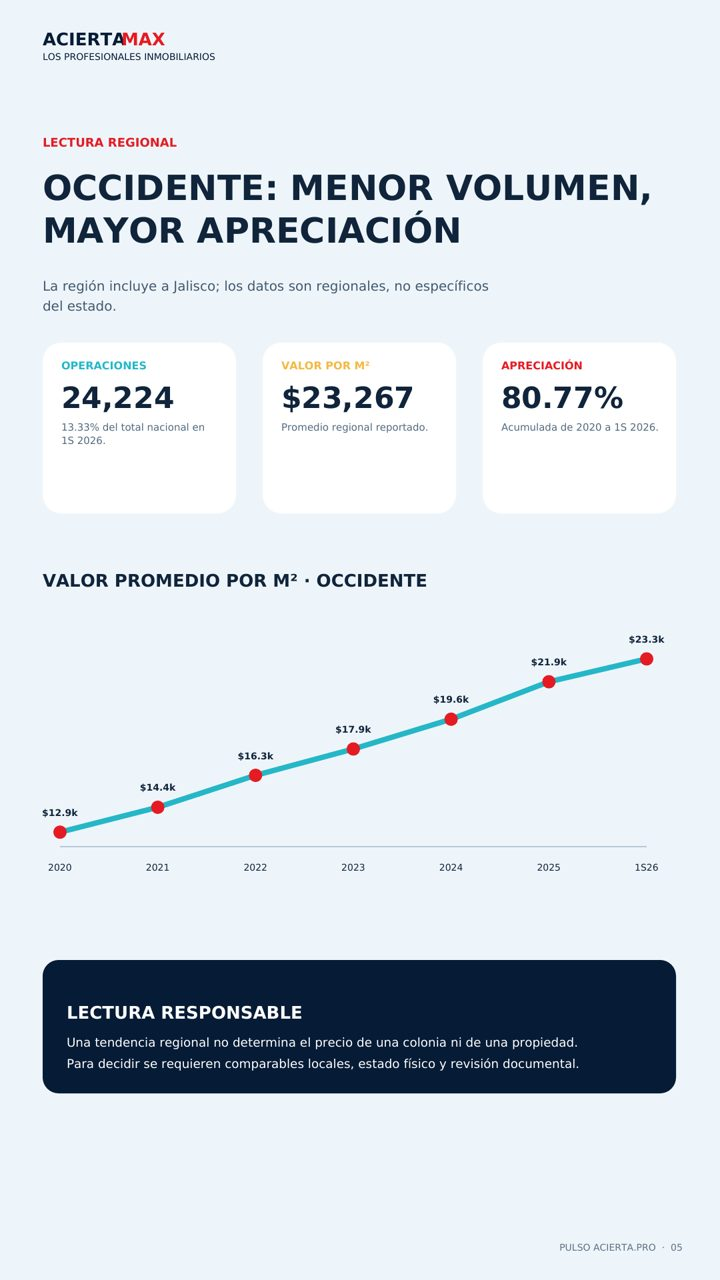
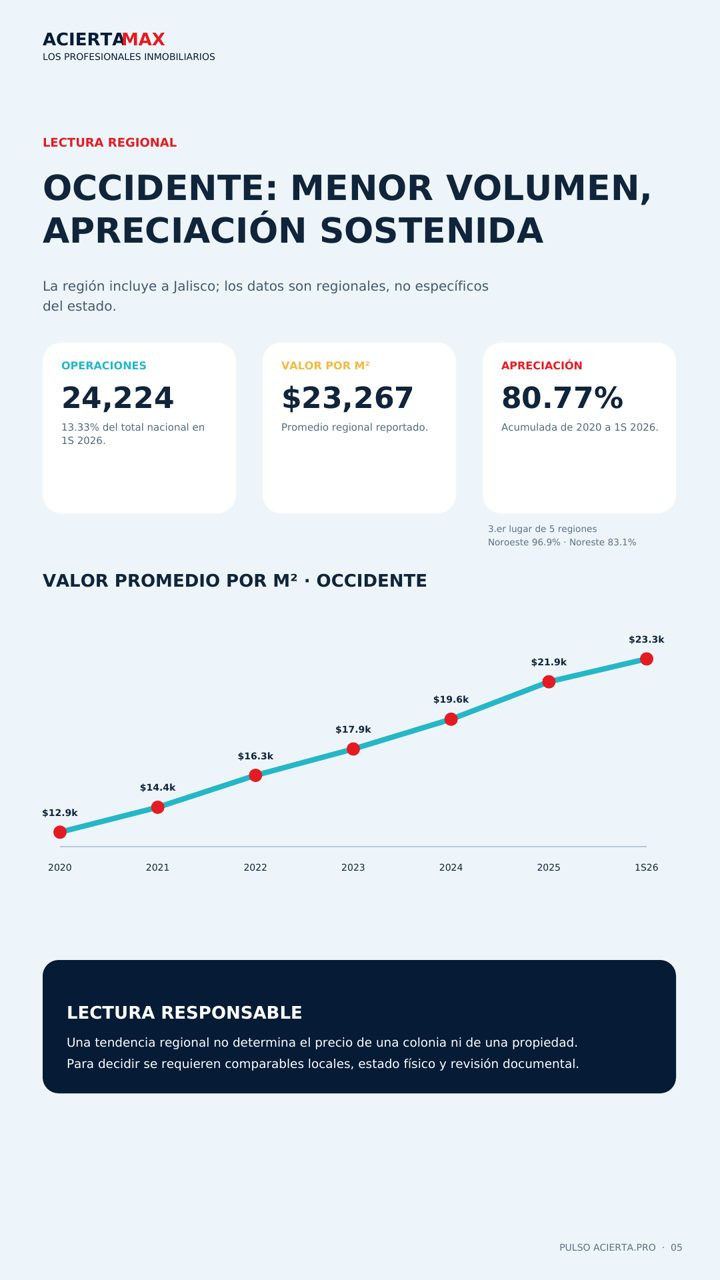
Pulso 01 version final: titulo regional (3.er lugar de 5), fuente de Visa acotada a EE.UU./AU/NZ, aviso de cifras preliminares por el incidente SHF; vistas previas regeneradas; ?v=3. Material verificado para el Pulso 02 en el documento de continuidad.

Changed region(s): [[0.0611, 0.1562, 0.7639, 0.1875], [0.6722, 0.4062, 0.8556, 0.4375]]

diff --git a/herramientas/ESTADO_DEL_PROYECTO.md b/herramientas/ESTADO_DEL_PROYECTO.md
@@ -48,6 +48,16 @@ Actualizado: 4 de octubre de 2026 (noche). Léelo completo antes de tocar nada. 
 - Costo: hoja "Pulso Métricas" (por mes: mensajes WhatsApp, correos, altas, bajas, costo estimado a USD 0.0085 por mensaje, sin descontar los 1,000 gratis). MAX avisa a Javier una vez al mes al llegar a USD 40 (`PULSO_ALERTA_USD`): ahí se evalúa la rentabilidad. Plantilla de marketing `pulso_semanal` descartada por ahora (USD 0.0397 por mensaje desde oct-2026).
 - Aviso de privacidad: ya incluye la finalidad secundaria del Pulso y la baja; faltan domicilio, correo ARCO y fecha (Javier), y validación del abogado. Al completarlo, subir `avisoVersion` en camino-datos.json.
 
+### Material para el Pulso 02 (ya verificado contra el Anuario Hipotecario 2026, Metric Analysis)
+- Tasas: Banxico en pausa en 6.50%, sin recortes previstos en 2026; tasa de colocación bancaria 9.99% (jun-2026, vs 10.31% un año antes), plazo promedio 19.2 años; crédito para pago de pasivos +51.8% en monto (portabilidad: gancho para crédito/Betty).
+- Infonavit/Fovissste: 50.7% de sus créditos del 1S 2026 fue a vivienda vendida por persona física (gancho para captar vendedores).
+- Oferta: 489.5 mil viviendas registradas en RUV (+183%), inicios de obra +217%; llegan al mercado en 2027.
+- Tickets: nueva +79.9% y usada +76.8% (2019 a 1S 2026); en 1S 2026 la usada cuesta $138 mil más.
+- Escenarios 2S 2026 a 2028: inercia ~50%, reactivación ~30%, contracción ~20%.
+- Regiones (plusvalía 2020 a 1S 2026): Noroeste 96.93%, Noreste 83.12%, Occidente 80.77%, Sureste 74.91%, Centro 58.96%. Jalisco no aparece en las tablas por estado.
+- Recordar: cifras del 1S 2026 preliminares por el incidente de ciberseguridad de la SHF (ene-2026, ~44 mil operaciones sin computar).
+- Pendiente de decisión: "Termómetro acierta.pro" mensual con precios de OFERTA del inventario propio por municipio (aclarar sesgo a segmento medio-alto y limpiar m² terreno/construcción antes de publicar).
+
 ## 4. Archivo para ChatGPT (publicidad en Instagram)
 - `inventario-chatgpt.xlsx` / `.csv`: 34 columnas (clave EB, filtros, textos para imagen, foto grande, liga de WhatsApp con la clave, hashtags, `apto_para_publicar`, `nota_calidad`). Se regenera solo cada mes.
 - Instrucciones para pegar en el GPT: `herramientas/chatgpt/instrucciones-chatgpt.txt` (4,806 caracteres; límite de ChatGPT 8,000). Diccionario y ejemplos reales: `herramientas/chatgpt/diccionario-y-ejemplos.md`.
